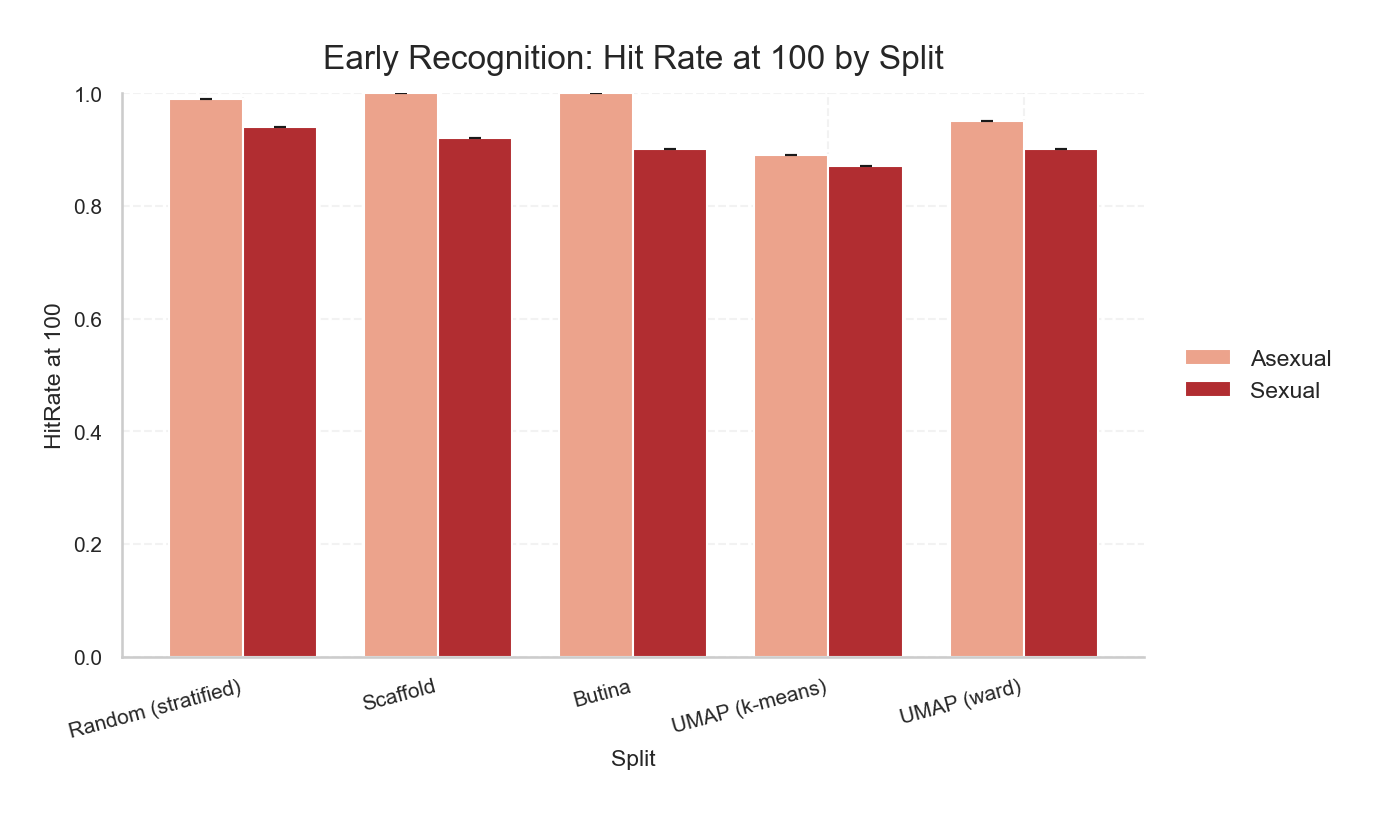
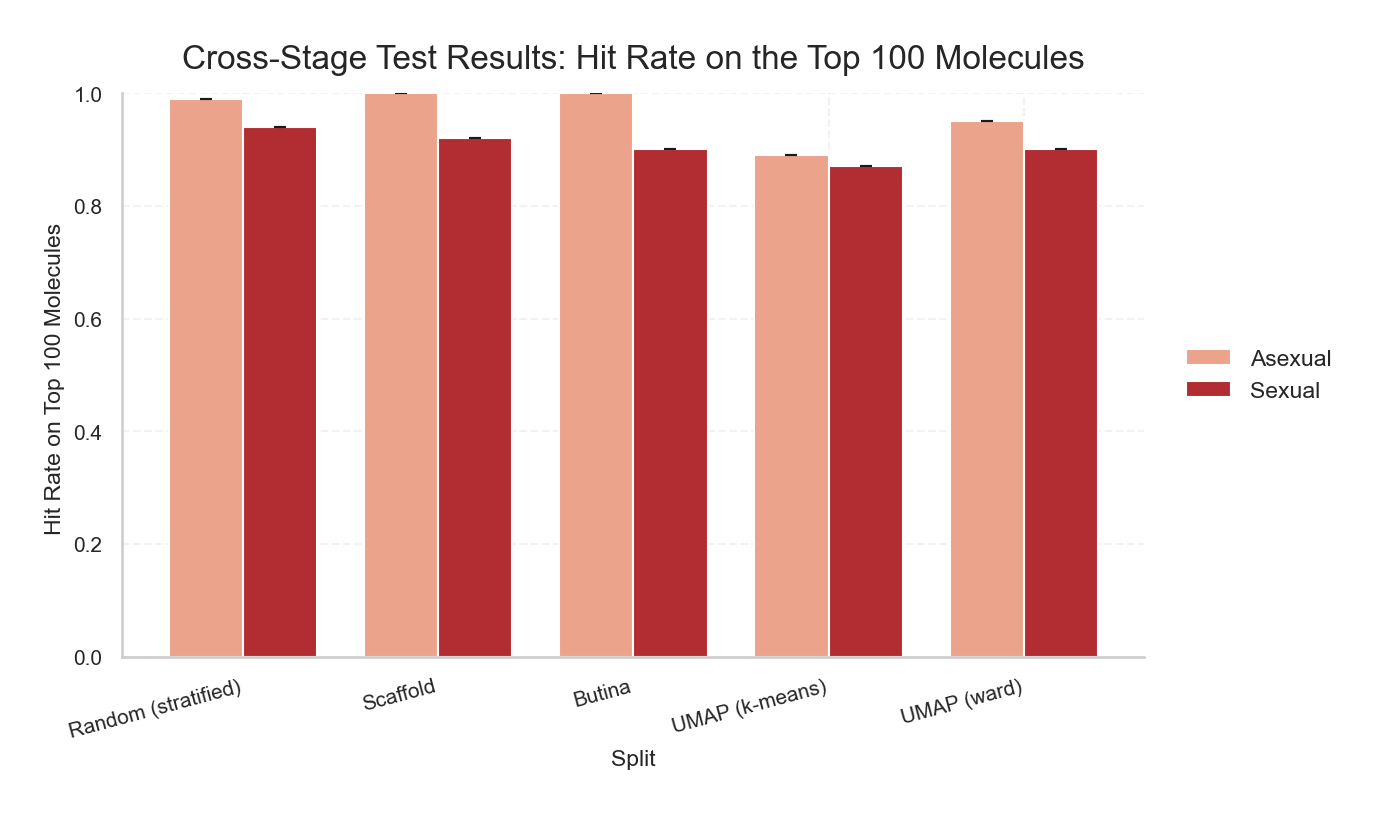
barcharts results new

Changed region(s): [[0.1242, 0.0307, 0.7762, 0.0921], [0.031, 0.2764, 0.0621, 0.645], [0.652, 0.8292, 0.7451, 0.8907]]

diff --git a/p2_models/3 - analysis_test_results/figures/results_bar_charts/results_barcharts.py b/p2_models/3 - analysis_test_results/figures/results_bar_charts/results_barcharts.py
@@ -229,8 +229,8 @@ def delta_bar_figure(df_hit_agg, ylabel, title, out_path):
 if "hit" in agg:
     grouped_bar_figure(
         metric_df=agg["hit"],
-        ylabel="HitRate at 100",
-        title="Early Recognition: Hit Rate at 100 by Split",
+        ylabel="Hit Rate on Top 100 Molecules ",
+        title="Cross-Stage Test Results: Hit Rate on the Top 100 Molecules",
         out_path=OUT_DIR / "panel_hit_at_100.png",
         ylim=(0,1)
     )
@@ -239,8 +239,8 @@ if "hit" in agg:
 if "ef" in agg:
     grouped_bar_figure(
         metric_df=agg["ef"],
-        ylabel="EF@100",
-        title="Early Recognition: Enrichment Factor at 100 by Split",
+        ylabel="EF on Top 100 Molecules",
+        title="Cross-Stage Test Results: Enrichment Factor on the Top 100 Molecules",
         out_path=OUT_DIR / "panel_ef_at_100.png",
         ylim=None
     )
@@ -250,7 +250,7 @@ if "rmse" in agg:
     grouped_bar_figure(
         metric_df=agg["rmse"],
         ylabel="RMSE (pIC50)",
-        title="Regression Error: RMSE by Split",
+        title="Cross-Stage Test Results: Root Mean Squared Error",
         out_path=OUT_DIR / "panel_rmse.png",
     )
 
@@ -258,20 +258,20 @@ if "rmse" in agg:
 if "rho" in agg:
     grouped_bar_figure(
         metric_df=agg["rho"],
-        ylabel="Spearman",
-        title="Rank Quality: Spearman (rho) by Split",
+        ylabel="Spearman Correlation",
+        title="Cross-Stage Test Results: Rank Quality via Spearman Correlation",
         out_path=OUT_DIR / "panel_spearman.png",
         ylim=(-1, 1),
         zero_line=True
     )
 
-# 5) ΔHit@100 (Sexual - Asexual)
-if "hit" in agg:
-    delta_bar_figure(
-        df_hit_agg=agg["hit"],
-        ylabel="Change in Hit Rate at 100 Sexual between Asexual Tests",
-        title="Change in Hit Rate at 100 between Sexual and Asexual Test by Split",
-        out_path=OUT_DIR / "panel_delta_hit_at_100.png",
-    )
+# # 5) ΔHit@100 (Sexual - Asexual)
+# if "hit" in agg:
+#     delta_bar_figure(
+#         df_hit_agg=agg["hit"],
+#         ylabel="Change in Hit Rate at 100 Sexual between Asexual Tests",
+#         title="Change in Hit Rate at 100 between Sexual and Asexual Test by Split",
+#         out_path=OUT_DIR / "panel_delta_hit_at_100.png",
+#     )
 
 print("All done.")
